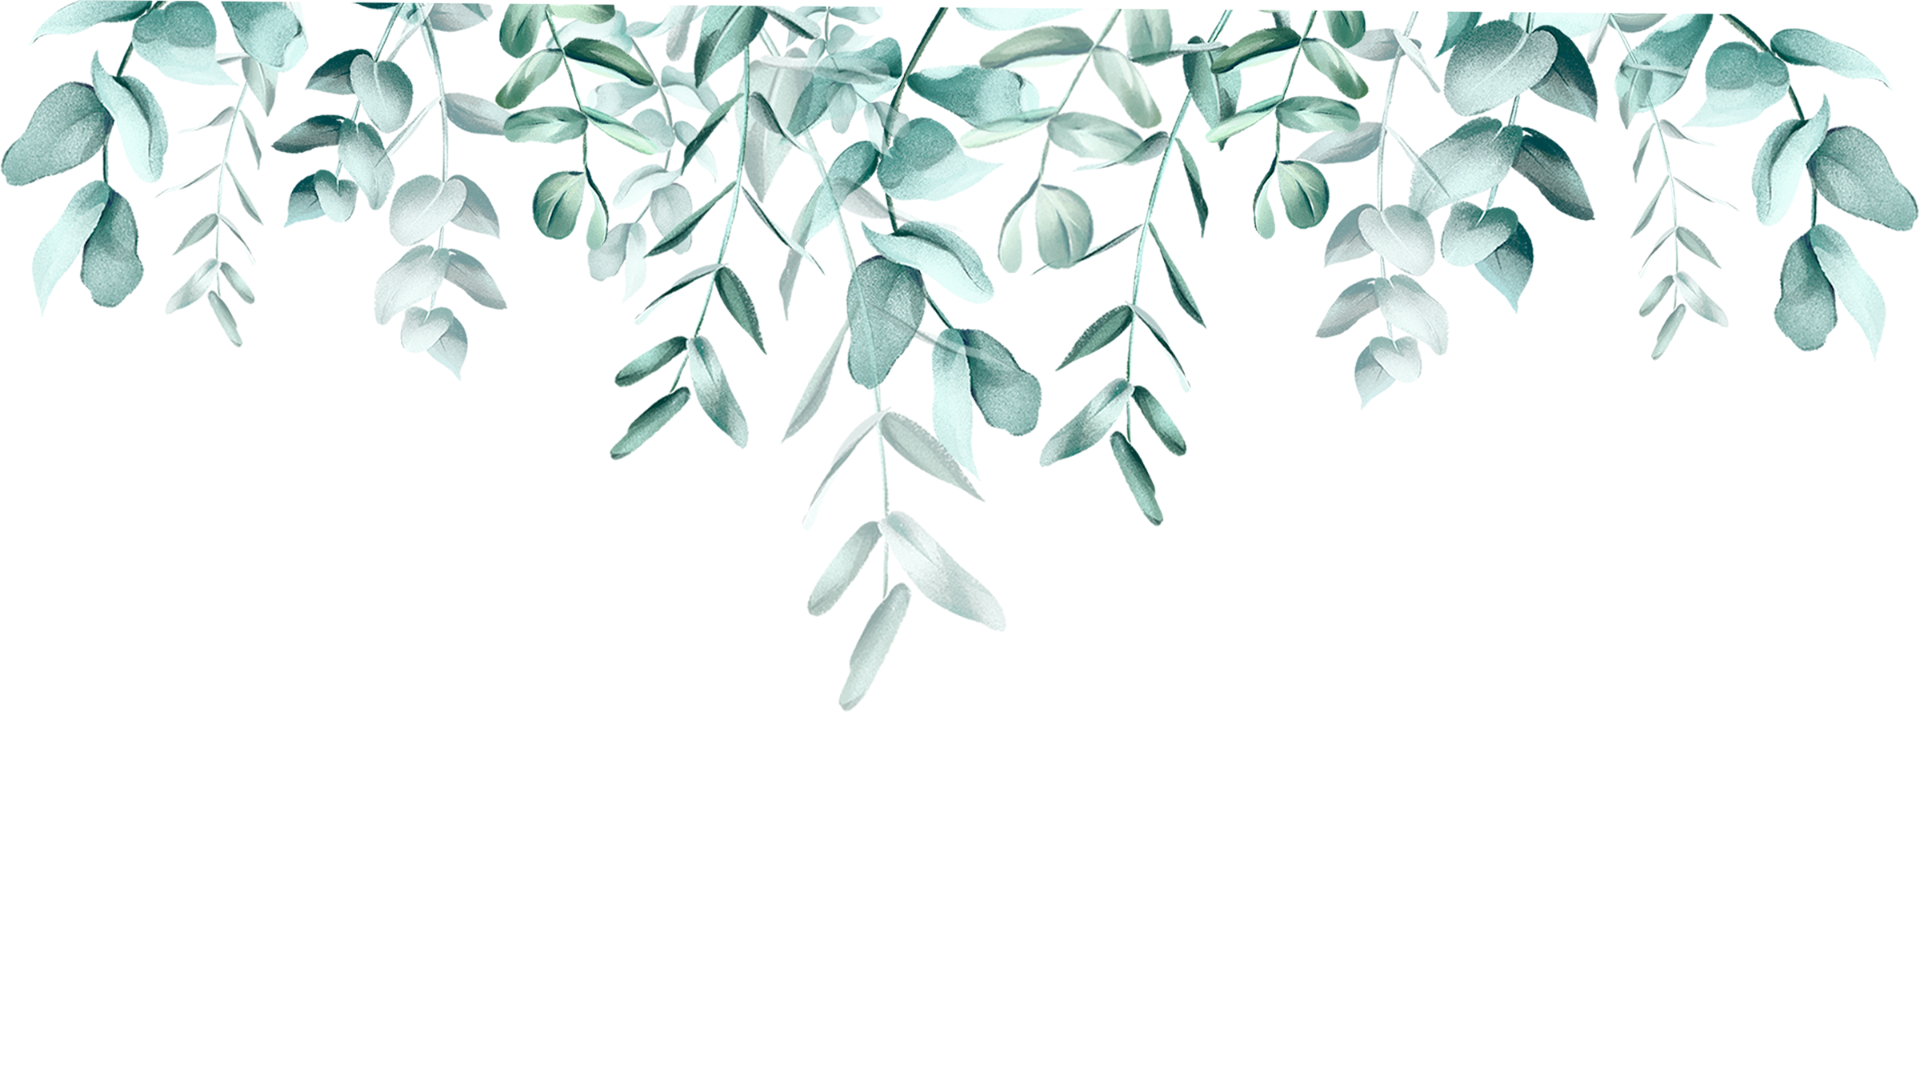
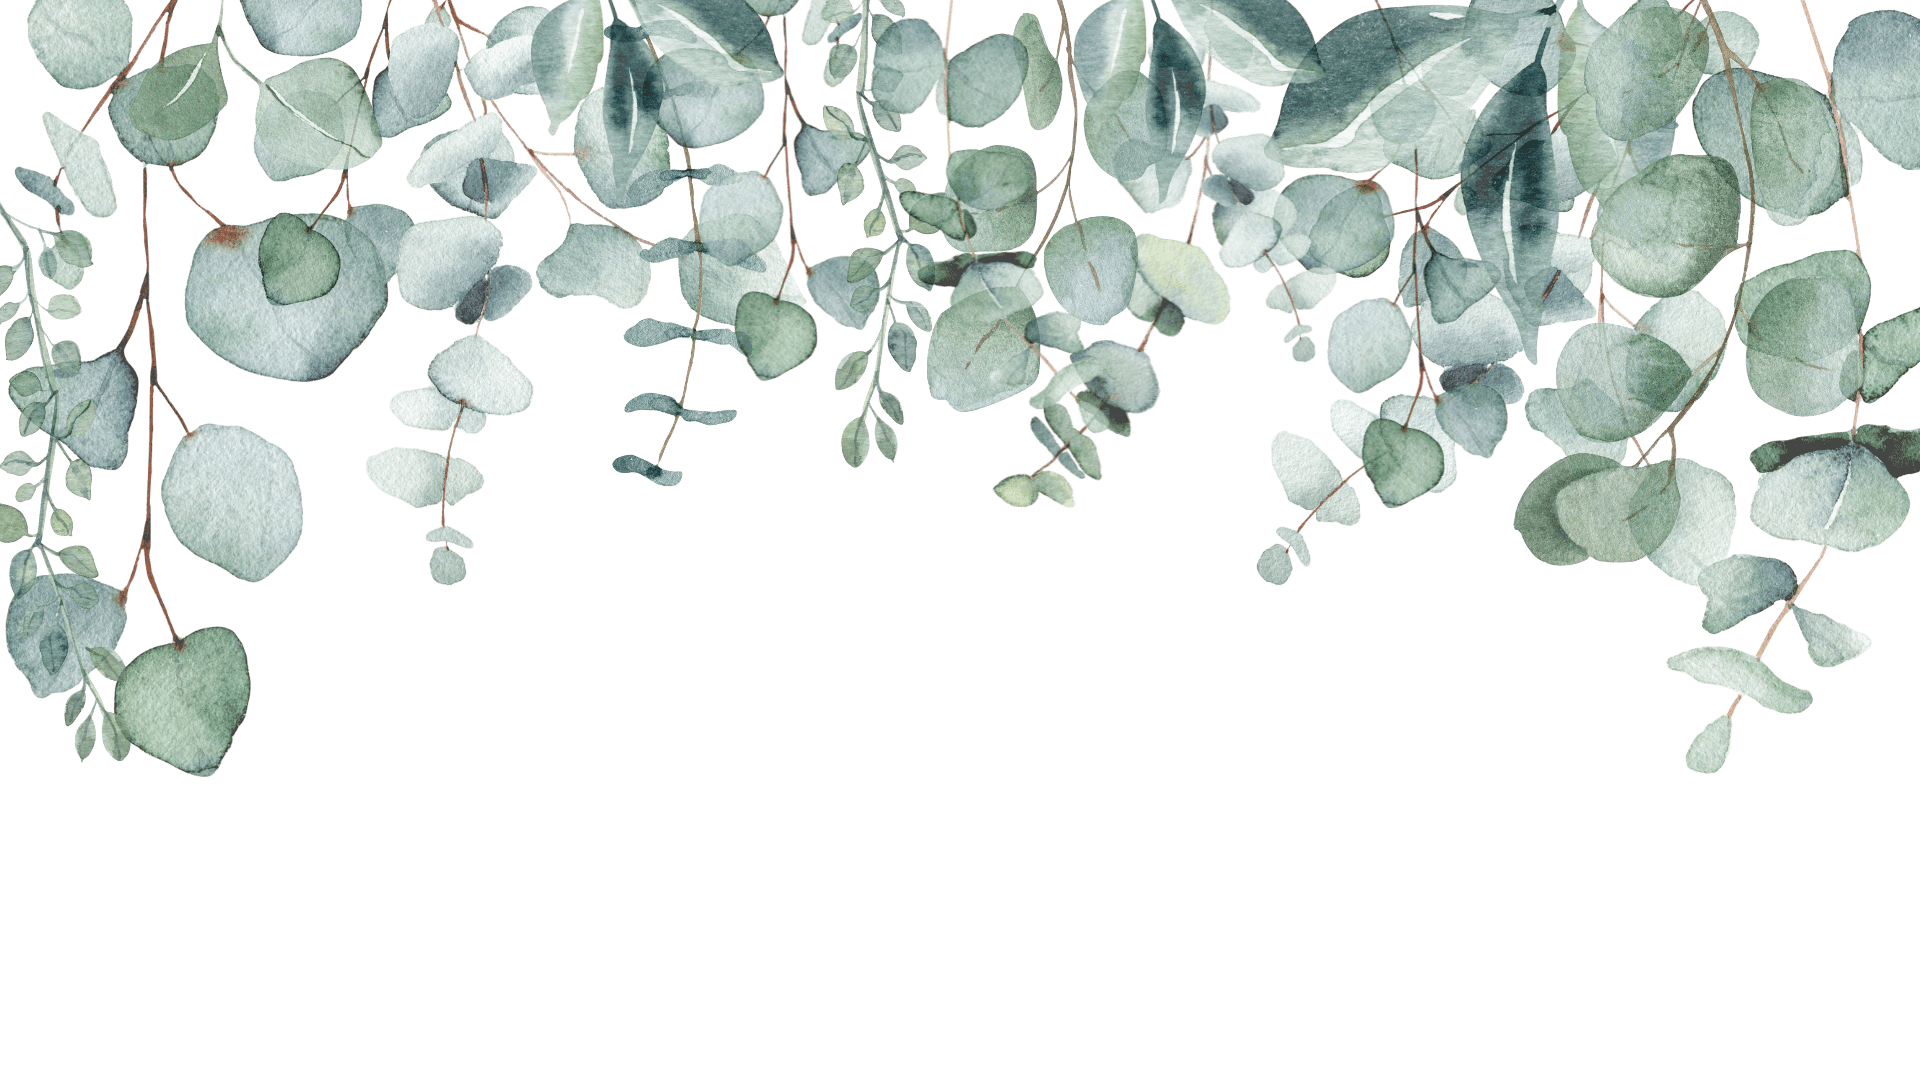
hero

diff --git a/components/Hero.tsx b/components/Hero.tsx
@@ -7,7 +7,7 @@ function Hero() {
     <div className="h-[100svh] w-full flex flex-col items-center justify-center py-8 lg:pt-32">
       <div
         id="bg"
-        className="w-full h-full absolute top-0 left-0 bg-[url('/eucalypto.png')] bg-no-repeat bg-top bg-contain opacity-40"
+        className="w-full h-full absolute top-0 left-0 bg-[url('/eucalypto.png')] bg-no-repeat bg-top bg-cover opacity-30"
       ></div>
       <Herotext />
 
